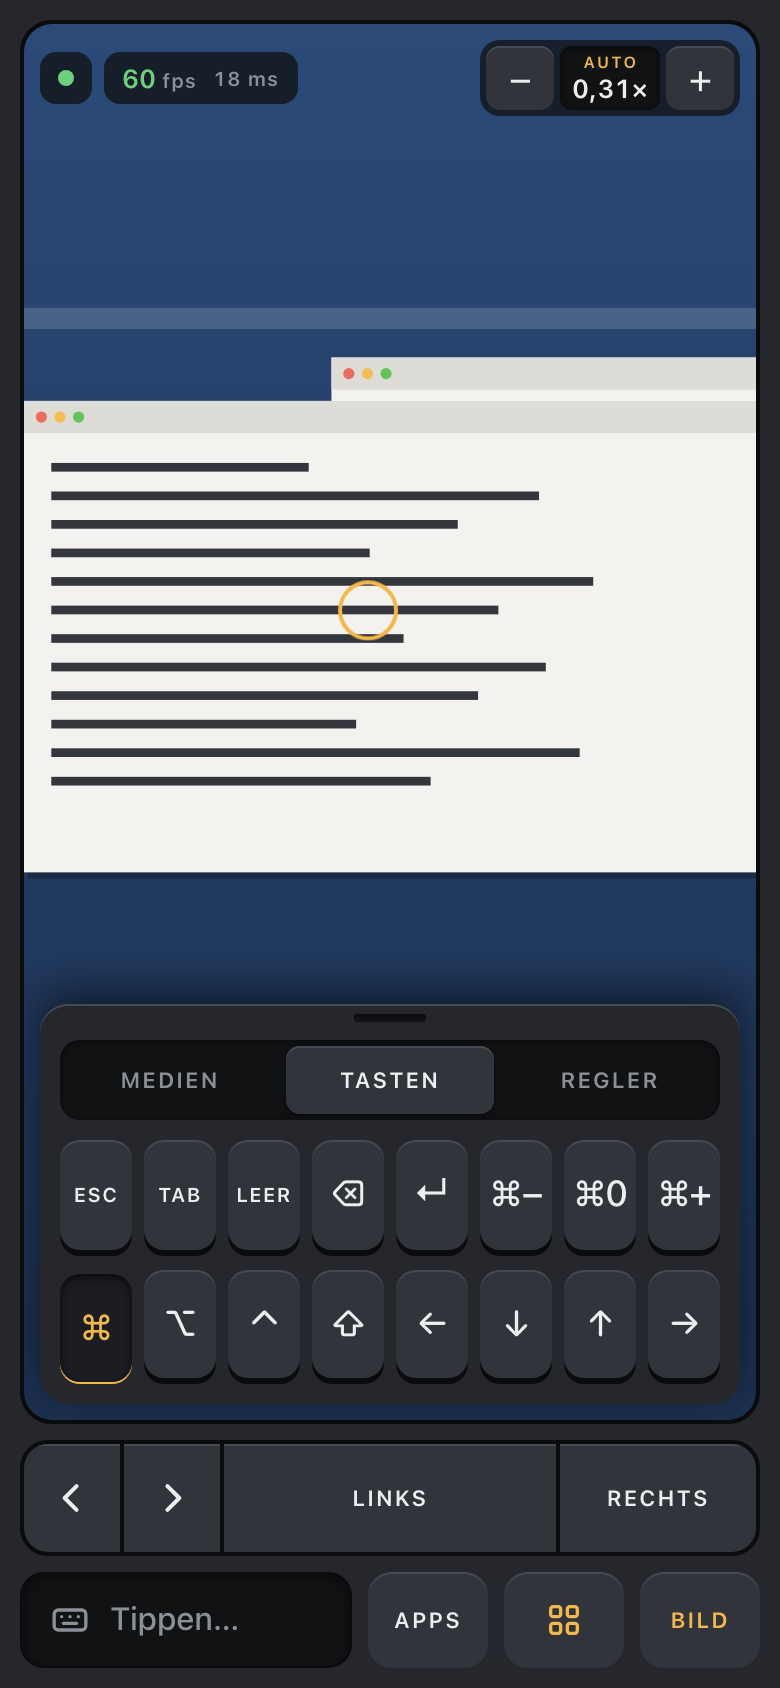
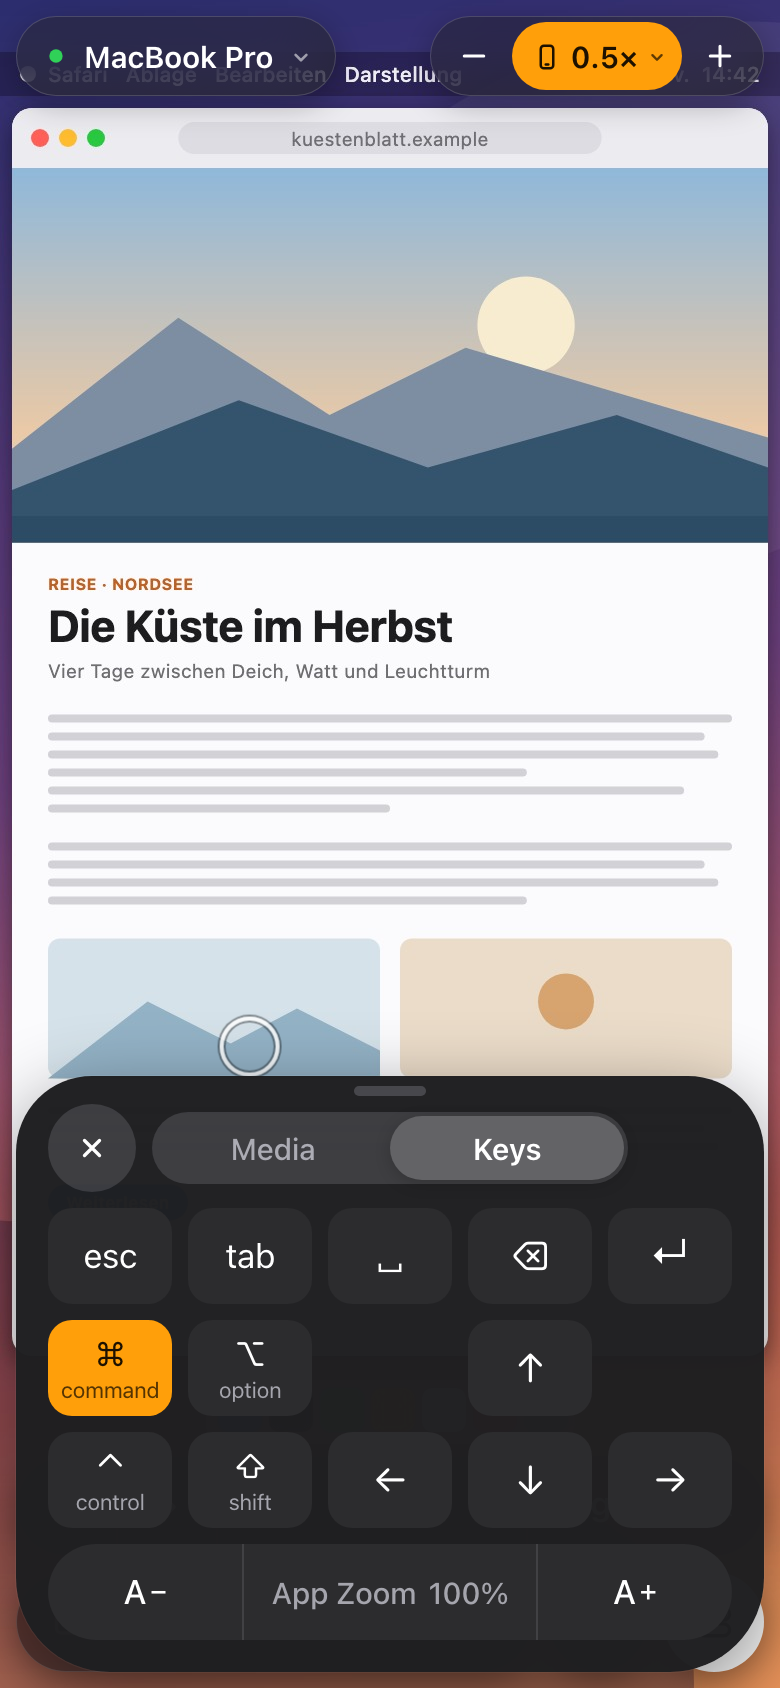
Record the round that puts glass over the Mac, with new pictures of the page

diff --git a/docs/decisions.md b/docs/decisions.md
@@ -845,6 +845,101 @@ the same verifier version. Keyboard heights: 336 px upright, 208 px sideways; "i
       Seitenverhältnis des Displays, dass T15 den Zeiger bei einem um 1 px breiteren Display einen halben Punkt daneben
       sah; die Seite war richtig.
 
+19. Glas über dem Mac (Analyse mit Mockups, Schritt zwei von zwei; Mockups 1 bis 11 der Analyse). Verifier v18, Basis =
+    4b85a83 mit v17, beide in derselben Chromium-Version.
+    - Gerüst: das Bildelement deckt das ganze Telefon, Ränder des Displays eingeschlossen; alles andere schwebt darüber.
+      Hochkant oben links der Mac-Knopf (Zustand als Zeichen und Wort, Name, Menü), oben rechts die Ansicht-Kapsel
+      (−, Anzeige mit Menü, +), unten die Maustasten (‹ › Klick Rechtsklick) und die Leiste (Auf dem Mac schreiben,
+      Apps, Steuerung). Quer stehen dieselben Knöpfe in den beiden Seitenrändern, die am iPhone ohnehin frei sind:
+      Mac, ‹ ›, Rechtsklick, Klick auf der einen Seite, Ansicht, Schreiben, Apps, Steuerung auf der anderen;
+      „Maustasten rechts“ tauscht die Seiten. `remote.js` hängt die Knöpfe beim Drehen um (`arrange`), damit die
+      Reihenfolge für Tastatur und VoiceOver der sichtbaren folgt.
+    - Ränder für den Mac: die Ansichtsanfrage trägt `inset`, gemessen an den Zonen der Bedienelemente (hochkant oben
+      und unten, quer links und rechts; beim Tippen oben und die Tippleiste). Blätter, Menüs und die Tour zählen nicht:
+      sie kommen und gehen, und eine neue Anfrage hieße ein neuer Strom. Geprüft, wo die Seite mit der Breite des
+      Bildes rechnet: Zoom (`clientWidth / width`), Vorschau beim Zoomen, Zeiger voraus und Anzeige rechnen mit dem
+      ganzen Element, wie der Kopf das gesendete Bild beschreibt; nichts davon musste sich ändern. Gemessen (T20):
+      Bildelement immer so groß wie das Telefon, `inset` hochkant [48, 0, 116, 0], quer [0, 64, 0, 64]; Apps,
+      Steuerung, Einstellungen und beide Menüs öffnen und schließen ohne neue Anfrage und ohne Größenänderung.
+    - Unverdeckter Anteil (T1, neu gemessen als Fläche zwischen den Rändern, die die Seite dem Mac meldet; vorher die
+      Fläche des Display-Elements, über dessen oberem Rand die Chips lagen): hochkant 70/74/81 → 71/75/83 %
+      (Höhe 71,1/75,4/82,8 %), quer 73/77/83 → 77/81/87 %. Alle 13 Hauptaktionen erreichbar (neu gezählt: Steuerung).
+      Live-Bild beim Tippen unverdeckt 208/88/166/86 → 227/107/180/100 px, weil die obere Reihe beim Tippen weicht,
+      wenn weniger als 420 px zu sehen sind (`cramped`), und die Tippleiste aus zwei Zeilen zu 44 px besteht.
+    - Glas und seine Kosten, nicht gemessen: Unschärfe über einem Bild, das sich 60-mal je Sekunde ändert, wird jedes
+      Bild neu gerechnet, und auf einem iPhone hat das niemand gemessen. Deshalb: Unschärfe nur auf den Kapseln, die
+      stillstehen (gemessen: 23/19/13 % der Fläche hochkant bei 320/375/440 px, quer 17/14/9 %, keine davon animiert);
+      Blätter, Menüs, Karten und die Tour bewegen sich und haben ein fast deckendes Material ohne Unschärfe; die
+      unsichtbare Tippleiste hat keine. „Durchsichtige Flächen“ in den Einstellungen schaltet die Unschärfe ganz ab,
+      ebenso „Transparenz reduzieren“ und „Kontrast erhöhen“ am Telefon (T20: 0 unscharfe Elemente in allen drei Fällen).
+      Wer am iPhone ruckelndes Bild bemerkt, schaltet sie dort ab; gemessen werden sollte es mit dem Messwert im Mac-Knopf.
+    - Designsystem umgesetzt: konzentrische Radien (Blatt 47 unten, 38 oben, Gruppen 22/31, Tasten 12, Knöpfe als
+      Kapsel), ein Akzent für „gewählt oder Hauptaktion“ (eingepasste Ansicht, gerasteter Modifier, Schalter an,
+      Entsperren auf gesperrtem Mac), Bewegung, die abbremst und nicht überschwingt (die Feder des Segmentschalters
+      ist weg), Symbole selbst gezeichnet in einem Stil (24er Raster, Strich 1,8, rund), weil die Lizenz der SF Symbols
+      Webseiten nicht deckt. Hell und Dunkel folgen dem Telefon; die Bühne hinter dem Bild bleibt schwarz, ohne Bild
+      ist der Grund hell oder dunkel. Erhöhter Kontrast: deckende Flächen, sichtbare Kanten, volle Schriftfarbe.
+    - Ohne Live-Bild (Mockup 2): eine ruhige Fläche im unverdeckten Teil, ein Hinweis bis zur ersten Bewegung (gemerkt),
+      ein Ring, wo ein Klick ankam. Oben rechts steht dann „Live-Bild“ statt der Ansicht-Kapsel.
+    - Schreiben (Mockup 3): esc tab | ⌘ ⌥ ⌃ ⇧ | ← ↓ ↑ → in einer Kapsel, ein gerasteter Modifier als Kreis im Akzent,
+      darunter Feld und ✓. Unter 360 px zwei Zeilen. „Folgt Text“ ist ein Schreibmarken-Zeichen in der Anzeige.
+    - Blätter (Mockups 4 bis 7): Apps als Raster wie im Dock (Fläche und Punkt für die App vorn, Zahl als helle Marke),
+      Fenster als gruppierte Liste mit Haken rechts und dem Satz, dass sich vorher nichts bewegt; Steuerung mit
+      Medien (Transport-Karte, Kacheln Stumm, leiser|lauter, Mac sperren) und Tasten (5 Spalten, Modifier mit Namen
+      wie auf der Tastatur des Landes: cmd/alt/ctrl auf deutschen, command/option/control auf US-Tastaturen, Pfeile als
+      umgedrehtes T, App-Zoom als eigene Zeile A− | 100 % | A+); kleinste Taste 34 → 48 px (T8). Einstellungen als
+      eigenes Blatt mit Gruppen: Zeiger (Schieber, Zurücksetzen), Live-Bild (Fenster einpassen, An iPhone anpassen,
+      Bildrate und Verzögerung), Bedienung (Maustasten rechts, Durchsichtige Flächen), Hilfe (Gesten-Tour), am Ende der
+      Name, unter dem der Mac dieses iPhone gekoppelt hat. Nicht modal: Bewegen und Scrollen auf dem Bild darüber gehen
+      weiter (T6 misst die nächste Bewegung bei offenem Blatt: 2,0-fach). Jedes Blatt ist nach seiner Schließtaste in
+      unter 200 ms weg (T7: 199 → 179 ms; T20 für alle drei), ein Tipp aufs Bild oder Wischen nach unten schließen es.
+    - Zustände: gesperrt (Mockup 8) wird der Schreib-Knopf zur Hauptaktion im Akzent, „Mit Face ID entsperren“ oder
+      „Mac entsperren“, und der Mac-Knopf sagt „Gesperrt“ mit Schloss. Erster Start (Mockup 9) mit Feld für die sechs
+      Ziffern; Fehler (Mockup 10) in den Formen der Zustandsmaschine, dazu „pausiert“ und „getrennt“; die Gesten-Tour
+      (Mockup 9b, `tour.js`): sechs Schritte, ohne Live-Bild fünf, jeder erledigt, sobald `touchpad.js` die Geste
+      erkennt (die Gesten gehen weiter an den Mac), überspringbar, einmal von selbst, sonst aus dem Mac-Menü und den
+      Einstellungen. `touchpad.js` ist unverändert; die Tour hört an seinen Ausgängen mit.
+    - Kopplung je Gerät (`pairing.js`, Node-Tests): Code aus dem Link, sechs Ziffern im Feld (Einfügen mit Leer- oder
+      Bindestrich, `one-time-code`, sofort bei sechs Ziffern), alter Token einmal zum Gerät, danach nur noch Tickets;
+      ein Agent ohne `/pair` und `/session` bekommt den Token wie bisher. Der Fragment-Teil verlässt die Adresse, sobald
+      er seine Arbeit getan hat; nur der Token eines alten Agenten bleibt dort, weil der Home-Bildschirm ihn sonst
+      verliert. Worte für falsch oder abgelaufen (der Mac unterscheidet sie nicht), keine offene Kopplung und zu viele
+      Versuche. `denied` mit `revoked` vergisst das Gerät und führt zum Feld; mit `ticket` wird einmal neu versucht.
+      `mac` setzt Bedienungshilfen und Pause sofort (Zustand `paused` in `connection.js`), eine erteilte
+      Bildschirmaufnahme holt das Live-Bild zurück. Der Verifier spielt den Mac mit diesen Wegen (T19, T20).
+    - Bewusst gegen frühere Entscheidungen, mit den Kosten in Tipps:
+      Die Anzeige öffnet das Ansicht-Menü, statt Einpassen zu schalten (Runde 12): Einpassen an oder aus 1 → 2 Tipps,
+      dafür auffindbar; Zange und − / + beenden es weiter mit einer Geste.
+      „An iPhone anpassen“ ins Ansicht-Menü (Runde 13, Rasttaste im Kopf des Apps-Blatts): 2 → 2 Tipps.
+      Displays ins Ansicht-Menü (Runde 12, Karte im Apps-Blatt): 2 → 2 Tipps; Apps in Sicht bei 320 px 9 → 12.
+      Der Messwert verlässt das Bild (Runden 6, 7): eingeschaltet steht er statt des Namens im Mac-Knopf, immer im
+      Mac-Menü (1 Tipp); die Einstellung dazu liegt im Einstellungsblatt (3 Tipps wie vorher in der Schublade).
+      Live-Bild aus 1 → 2 Tipps (Mac-Knopf, Live-Bild), an weiter 1 Tipp (der Knopf steht dann oben rechts).
+      Mac sperren als eigene Kachel (Runde 14, unter Stumm): 2 Tipps über Steuerung oder über den Mac-Knopf.
+      Zustand in Grün und Rot, mit Zeichen und Wort; die Zeigermarke ist neutral (Runde 6, eine Signalfarbe).
+      Blätter liegen über der Leiste und den Maustasten (die Schublade ließ das Dock frei): wie in den Mockups; das
+      Blatt ist mit einem Tipp aufs Bild weg. „Tippen, dann ziehen“ bleibt verworfen; die Tour lehrt drei Finger
+      und „Klick halten“.
+    - Wo der Bau von den Mockups abweicht, und warum:
+      Quer (Mockup 11) stehen Mac-Knopf und Ansicht-Kapsel in den Seitenleisten statt über dem Bild: darüber lägen sie
+      auf der Menüleiste des Macs (links Apple- und App-Menü) oder kosteten einen oberen Rand von 52 px, und der
+      Anteil fiele unter 73/77/83 %. Im Seitenrand zeigt der Mac-Knopf nur das Zeichen; der Name steht im Menü.
+      Blätter und Menüs sind nicht aus Glas, sondern aus fast deckendem Material: sie bewegen sich über dem Bild.
+      Kein eigener Schlüssel-Knopf zum Passwortfeld im gesperrten Zustand (Mockup 8): ein Weg zum Entsperren, über
+      dieselbe Taste; nach abgelehntem Face ID öffnet der nächste Tipp das Feld.
+      Die Zeile „Mit Face ID entsperren · Ein“ der Einstellungen fehlt: die Seite weiß nur bei gesperrtem Mac, ob ein
+      Passkey eingerichtet ist; eingerichtet wird am Mac.
+      Schalter im Akzent statt in Grün: Grün heißt hier „verbunden“. Die Schrittnummern des ersten Starts sind neutral,
+      der Akzent bleibt bei Hauptaktionen. Der Menüpunkt im ersten Start heißt, wie er am Mac heute heißt.
+    - Nebenbei gefunden und behoben: `Awake` rief `setTimeout` als eigene Methode auf, was Browser mit „Illegal
+      invocation“ ablehnen; `touched()` warf, bevor es den Wake Lock erbat, und der Bildschirm blieb nie wach (seit
+      Runde 18, Fundament). Test in `connection.test.mjs`, der mit dem alten Code scheitert. Der Verifier sammelt jetzt
+      die Ausnahmen der Seite (`page.errors`).
+    - Verifier v18: Aufgaben auf das neue Layout umgestellt (siehe Kopf von `ui-verify.mjs`), neu T19 Kopplung,
+      T20 Glas, Ränder und der Zustand des Macs, T21 Tour, T22 Seiten quer; `--gallery=DIR` legt alle Bildschirme hell
+      und dunkel mit einem erfundenen Mac-Bild ab, `--docs=DIR` die Bilder des README. 27 von 27 Prüfungen bestanden.
+      Zeiger und Scrollen gleich (schnell 250 px bei 60 Hz 768 → 779, Streuung).
+
 ## Not verified
 
 - No real iPhone. iOS Simulator 27.2 (Safari, portrait only: no Simulator GUI is installed, so no rotation, taps or
@@ -936,3 +1031,13 @@ the same verifier version. Keyboard heights: 336 px upright, 208 px sideways; "i
   ohne laufenden Strom trennt die Seite dann alle 15 s und verbindet neu. Die Freigabe des Wake Locks und das
   Schlüsselbild nach einem echten Dekoderfehler in WebKit sind nur in Tests gelaufen. Englische Texte von mir, nicht
   von einem Muttersprachler gegengelesen.
+- Runde 19: kein iPhone, nur Chromium mit Touch-Emulation, ohne echte Safe Areas, ohne Tastatur und ohne Dynamic Type.
+  Nicht gemessen: was die Unschärfe über dem laufenden Bild auf einem iPhone kostet (Bildrate, Akku, Wärme), ob die
+  Kapseln in den Ecken eines echten Displays quer ganz zu sehen sind, ob `prefers-reduced-transparency` in Safari
+  ankommt (sonst gilt nur die Einstellung), ob iOS den Code aus der Mitteilung für `one-time-code` anbietet und ob eine
+  Web-App vom Home-Bildschirm wirklich ohne das Cookie von Safari startet (die Seite ist dafür gebaut, belegt ist es
+  nicht). Die Kopplung je Gerät lief nur gegen den Mac des Verifiers; der Agent mit `/pair`, `/session`, Tickets und
+  `mac` entstand gleichzeitig und wurde nicht angesprochen. `inset` ist am echten Mac nicht gelaufen: dass die
+  Menüleiste an der Unterkante der oberen Knöpfe beginnt, ist aus dem Vertrag, nicht gesehen. Die Bilder der Galerie
+  zeigen ein gezeichnetes Mac-Bild. Englische Texte von mir, nicht gegengelesen. Das README beschreibt noch die alte
+  Oberfläche (Dock, Schublade, „Auto“ auf der Anzeige) und darf hier nicht geändert werden; seine Bilder sind neu.
